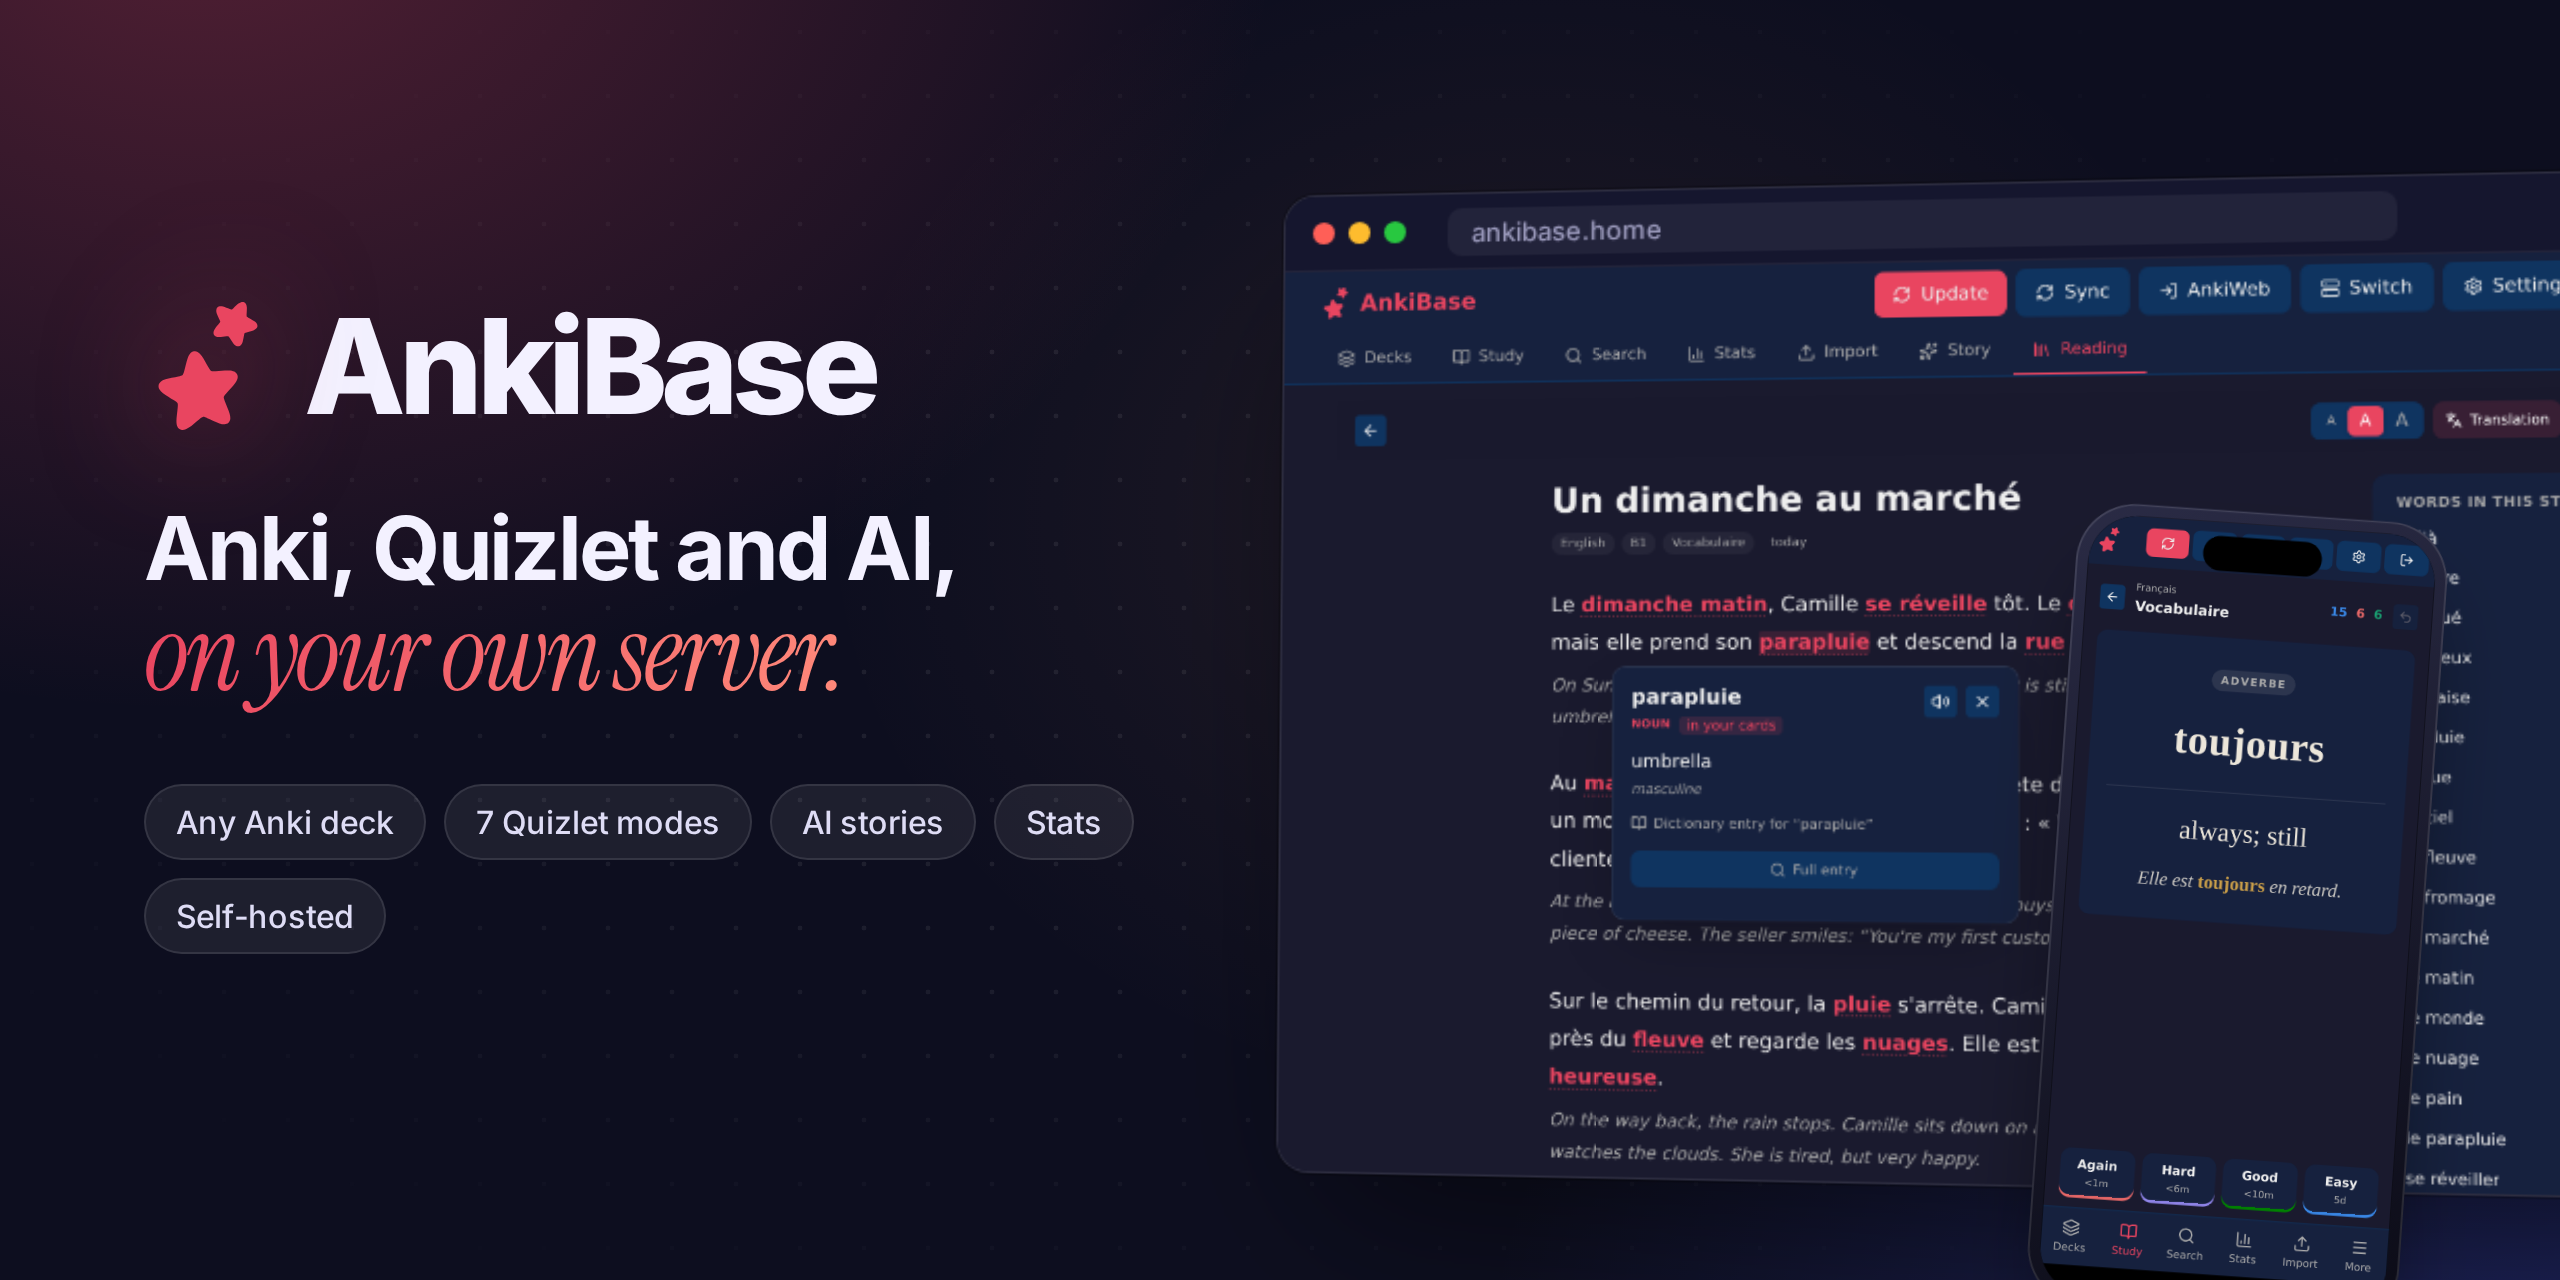
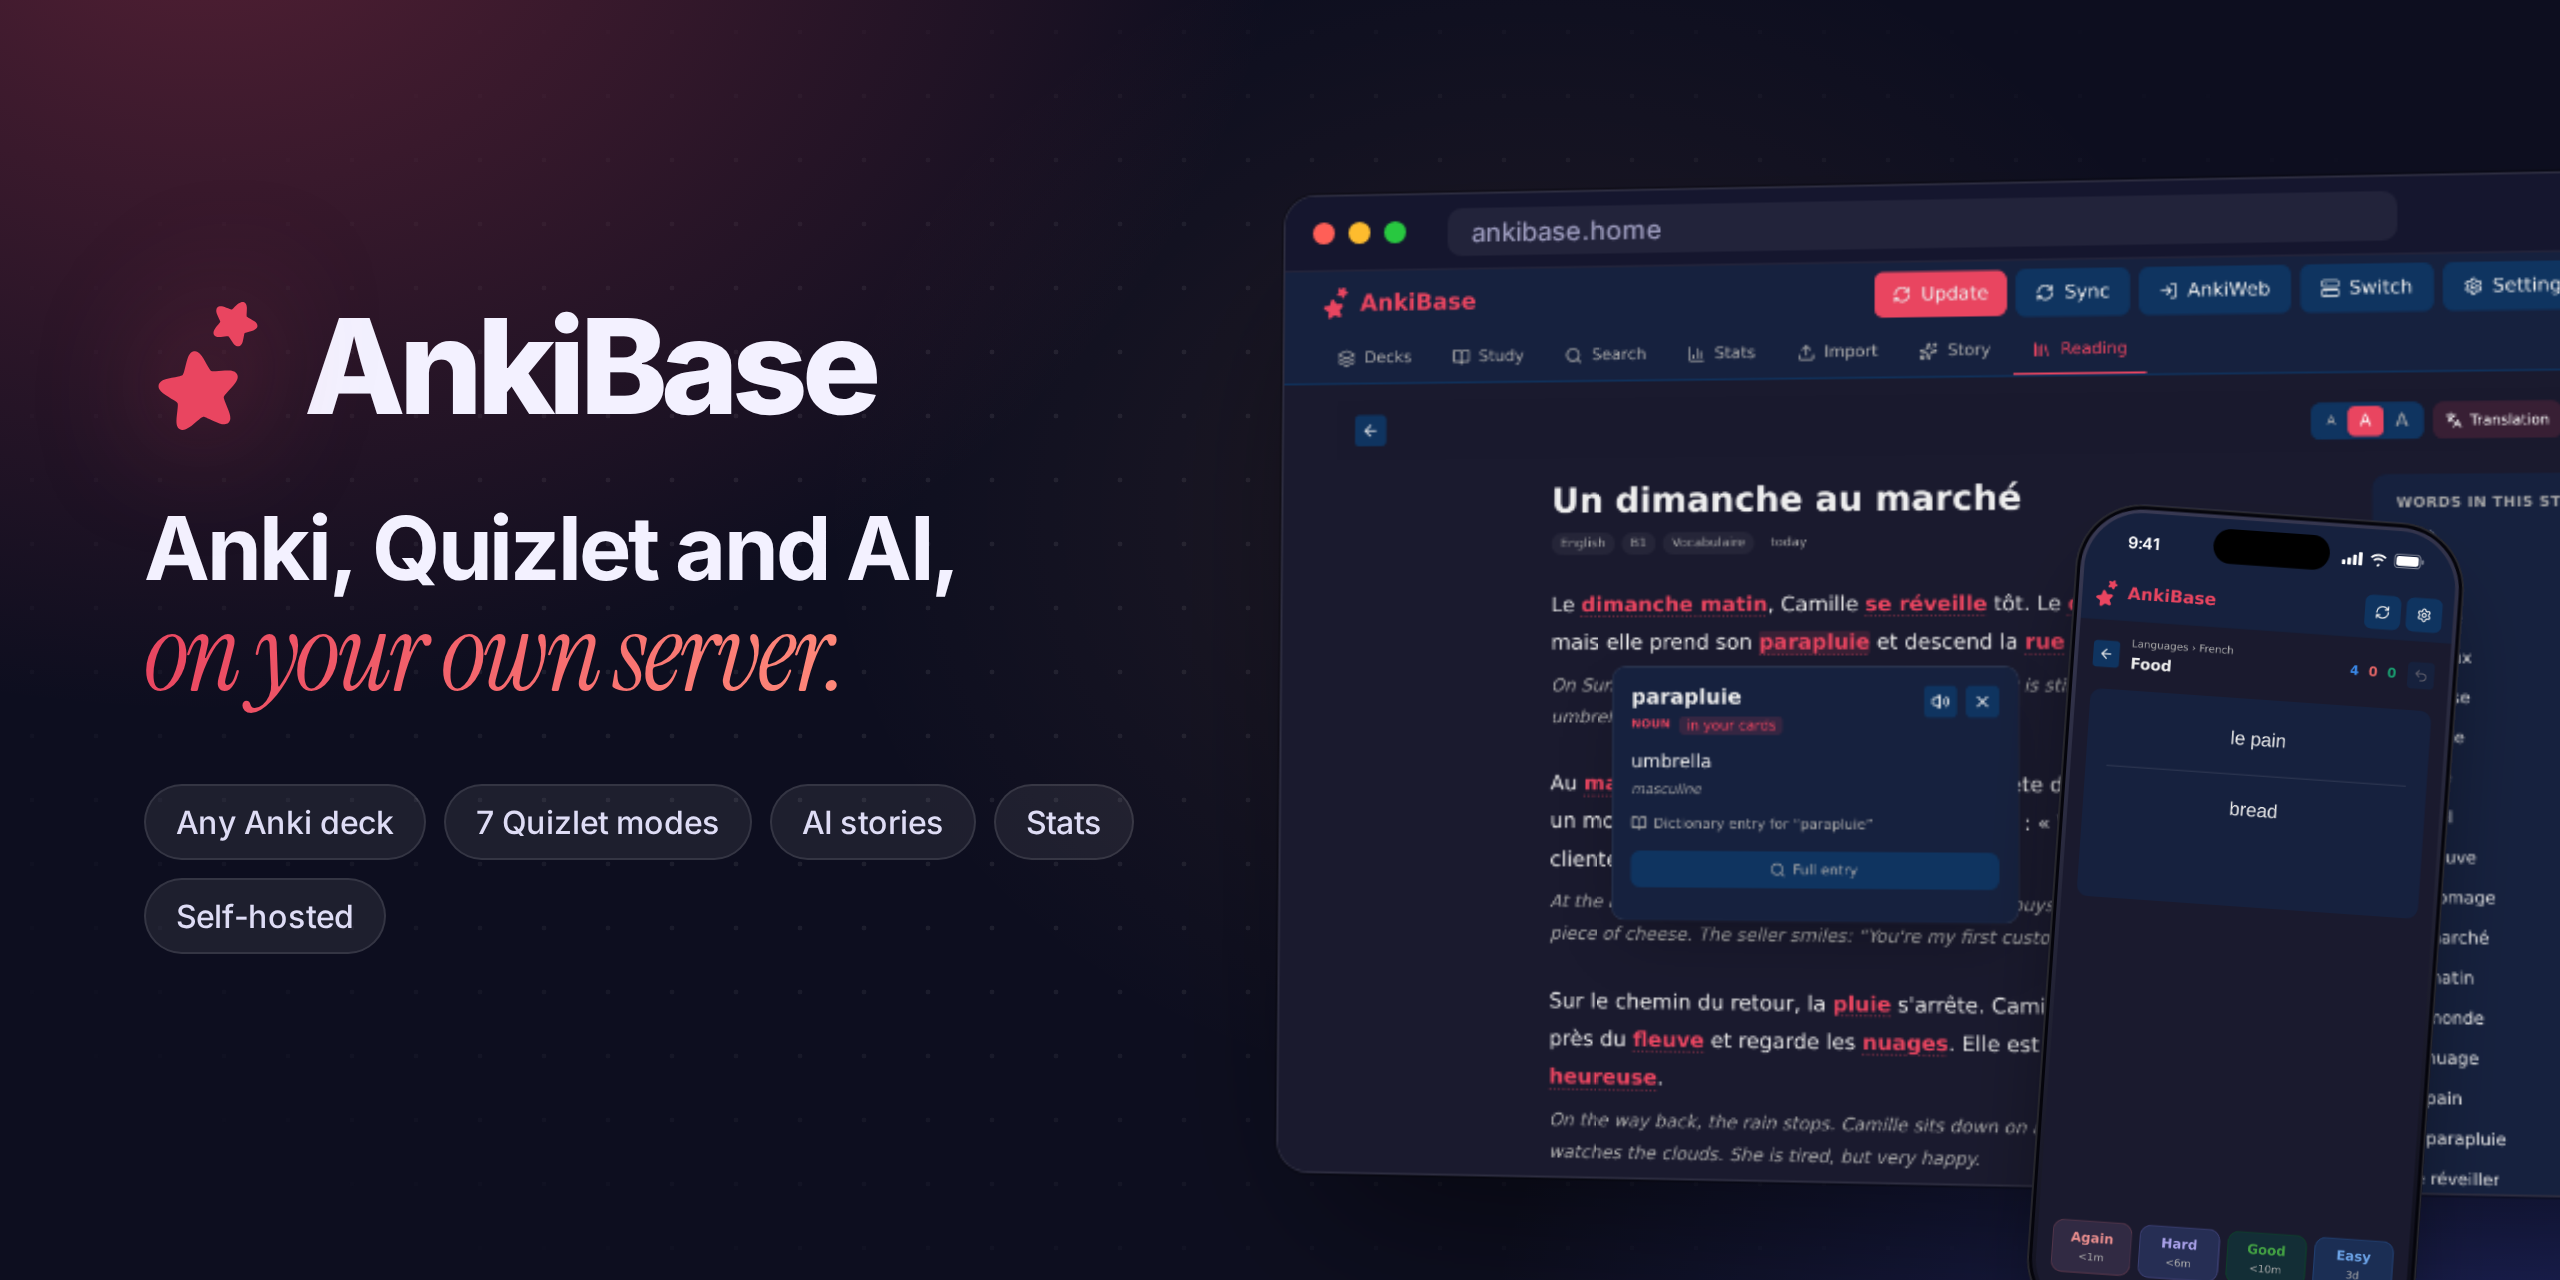
README: sharp media, a real video poster, the iPhone app
- Every README image is exported at full 2x and higher quality instead of being scaled
  down and compressed, so text is crisp on GitHub.
- The blurry animated video preview is now a sharp still with a play button.
- The phones show the actual iPhone app, taken with the iPhone's safe areas: the status
  bar and Dynamic Island sit over the app's header instead of covering it.
- New section on the iPhone app (offline, own sync server); sync server in the features.

Claude-Session: https://claude.ai/code/session_01XVCCwizeApyv2EfoSGjvCM

diff --git a/docs/video/media.html b/docs/video/media.html
@@ -25,11 +25,17 @@
   .bar i { width: 11px; height: 11px; border-radius: 50%; background: #ff5f57 } .bar i:nth-child(2) { background: #febc2e } .bar i:nth-child(3) { background: #28c840 }
   .url { margin-left: 14px; flex: 1; max-width: 460px; height: 24px; border-radius: 7px; background: rgba(255,255,255,.06); font: 500 13px/24px Inter; color: #9a99bb; padding-left: 12px }
   .browser img { display: block; width: 100% }
-  .phone { width: 300px; height: 649px; border-radius: 48px; padding: 10px; background: linear-gradient(160deg, #2a2b45, #0b0b16);
-           box-shadow: 0 40px 80px -24px rgba(0,0,0,.6), inset 0 0 0 1.5px rgba(255,255,255,.12) }
-  .phone .scr { width: 100%; height: 100%; border-radius: 39px; overflow: hidden; position: relative; background: #000 }
+  /* iPhone 15 Pro: a 393×852 pt screen (shots are taken at that size with its safe areas),
+     drawn 300 px wide; the status bar and Dynamic Island sit over the app's header. */
+  .phone { width: 314px; height: 664px; border-radius: 54px; padding: 7px; background: linear-gradient(160deg, #3a3b55, #0b0b16);
+           box-shadow: 0 40px 80px -24px rgba(0,0,0,.6), inset 0 0 0 1.5px rgba(255,255,255,.14), inset 0 0 0 4px #05050c }
+  .phone .scr { width: 300px; height: 650px; border-radius: 47px; overflow: hidden; position: relative; background: #000 }
   .phone img { width: 100%; display: block }
-  .phone .notch { position: absolute; top: 11px; left: 50%; width: 96px; height: 28px; margin-left: -48px; border-radius: 20px; background: #000; z-index: 2 }
+  .phone .notch { position: absolute; top: 8px; left: 50%; width: 94px; height: 28px; margin-left: -47px; border-radius: 20px; background: #000; z-index: 2 }
+  .phone .status { position: absolute; top: 0; left: 0; right: 0; height: 44px; z-index: 2; display: flex; align-items: center; justify-content: space-between;
+                   padding: 4px 26px 0 34px; font: 600 13px/1 Inter; color: #fff; letter-spacing: -.01em }
+  .phone .status svg { display: block }
+  .phone .home { position: absolute; bottom: 6px; left: 50%; width: 104px; height: 4px; margin-left: -52px; border-radius: 3px; background: rgba(255,255,255,.85); z-index: 2 }
   .tile { border-radius: 14px; overflow: hidden; position: relative; border: 1px solid rgba(255,255,255,.12); box-shadow: 0 24px 50px -18px rgba(0,0,0,.6) }
   .tile img { width: 100%; display: block }
   .tile span { position: absolute; left: 12px; bottom: 10px; font: 600 14px/1 Inter; padding: 7px 11px; border-radius: 999px; background: rgba(0,0,0,.6); color: #fff }
@@ -52,7 +58,7 @@
   </div>
   <div class="abs browser" style="left:640px;top:96px;width:720px;transform:perspective(2000px) rotateY(-9deg) rotateX(3deg);transform-origin:0 50%">
     <div class="bar"><i></i><i></i><i></i><div class="url">ankibase.home</div></div><img src="shots/reading.png"></div>
-  <div class="abs phone" style="left:1040px;top:250px;transform:scale(.62) rotate(4deg);transform-origin:0 0"><div class="scr"><div class="notch"></div><img src="shots/m-study.png"></div></div>
+  <div class="abs phone" style="left:1040px;top:250px;transform:scale(.62) rotate(4deg);transform-origin:0 0"><div class="scr"><img src="shots/m-study.png"></div></div>
 </div>
 
 <!-- framed screenshot (transparent) -->
@@ -70,10 +76,13 @@
 </div>
 
 <!-- phones -->
-<div class="board bg" id="phones" style="width:1280px;height:820px">
-  <div class="abs phone" style="left:150px;top:110px;transform:rotate(-4deg)"><div class="scr"><div class="notch"></div><img src="shots/m-study.png"></div></div>
-  <div class="abs phone" style="left:490px;top:80px"><div class="scr"><div class="notch"></div><img src="shots/m-reading.png"></div></div>
-  <div class="abs phone" style="left:830px;top:110px;transform:rotate(4deg)"><div class="scr"><div class="notch"></div><img src="shots/m-learn.png"></div></div>
+<div class="board bg" id="phones" style="width:1280px;height:860px">
+  <div style="position:absolute;left:0;right:0;top:40px;text-align:center">
+    <div style="font:600 14px/1 Inter;letter-spacing:.28em;color:var(--accent);text-transform:uppercase">iPhone app · works offline · syncs with AnkiWeb or your own server</div>
+  </div>
+  <div class="abs phone" style="left:150px;top:120px;transform:rotate(-4deg)"><div class="scr"><img src="shots/m-decks.png"></div></div>
+  <div class="abs phone" style="left:483px;top:96px"><div class="scr"><img src="shots/m-study.png"></div></div>
+  <div class="abs phone" style="left:816px;top:120px;transform:rotate(4deg)"><div class="scr"><img src="shots/m-stats.png"></div></div>
 </div>
 
 <!-- architecture -->
@@ -158,6 +167,13 @@
 </div>
 
 <script>
+// Status bar, Dynamic Island and home indicator on every phone.
+const STATUS = `<div class="status"><span>9:41</span><span style="display:flex;gap:5px;align-items:center">
+  <svg width="17" height="11" viewBox="0 0 17 11" fill="#fff"><rect x="0" y="7" width="3" height="4" rx="1"/><rect x="4.5" y="5" width="3" height="6" rx="1"/><rect x="9" y="2.5" width="3" height="8.5" rx="1"/><rect x="13.5" y="0" width="3" height="11" rx="1"/></svg>
+  <svg width="15" height="11" viewBox="0 0 15 11" fill="#fff"><path d="M7.5 2.2c2 0 3.9.8 5.3 2.1l1.1-1.1A9 9 0 0 0 7.5.6 9 9 0 0 0 1.1 3.2l1.1 1.1A7.6 7.6 0 0 1 7.5 2.2zm0 3.2c1.2 0 2.3.4 3.1 1.2l1.1-1.1a6 6 0 0 0-8.4 0l1.1 1.1c.8-.8 1.9-1.2 3.1-1.2zm0 3.1-1.6 1.6L7.5 11l1.6-1.9z"/></svg>
+  <svg width="25" height="12" viewBox="0 0 25 12"><rect x=".5" y=".5" width="21" height="11" rx="3.2" fill="none" stroke="rgba(255,255,255,.45)"/><rect x="2" y="2" width="18" height="8" rx="2" fill="#fff"/><rect x="22.5" y="4" width="1.6" height="4" rx=".8" fill="rgba(255,255,255,.45)"/></svg>
+</span></div><div class="notch"></div><div class="home"></div>`;
+document.querySelectorAll('.phone .scr').forEach(s => s.insertAdjacentHTML('beforeend', STATUS));
 const q = new URLSearchParams(location.search);
 const show = q.get('b');
 document.querySelectorAll('.board').forEach(b => b.style.display = b.id === show ? '' : 'none');

diff --git a/docs/video/poster.py b/docs/video/poster.py
@@ -1,0 +1,19 @@
+"""The README's video poster: a still of the demo with a play button (an animated preview
+compresses badly on GitHub).   python3 poster.py . 9.5 media/demo-poster.webp"""
+import sys
+from PIL import Image, ImageDraw
+from playwright.sync_api import sync_playwright
+V, T, OUT = sys.argv[1], float(sys.argv[2]), sys.argv[3]
+with sync_playwright() as p:
+    br = p.chromium.launch(); page = br.new_page(viewport={"width": 1920, "height": 1080})
+    page.goto(f"file://{V}/composition.html"); page.evaluate("() => document.fonts.ready")
+    page.wait_for_function("() => [...document.images].every(i => i.complete)")
+    page.evaluate(f"render({T})"); page.screenshot(path="/tmp/poster.png"); br.close()
+im = Image.open("/tmp/poster.png").convert("RGBA")
+over = Image.new("RGBA", im.size, (0, 0, 0, 0)); d = ImageDraw.Draw(over)
+cx, cy, r = im.width // 2, im.height // 2, 78
+d.ellipse((cx - r - 10, cy - r - 10, cx + r + 10, cy + r + 10), fill=(0, 0, 0, 70))
+d.ellipse((cx - r, cy - r, cx + r, cy + r), fill=(233, 69, 96, 235))
+d.polygon([(cx - 24, cy - 36), (cx - 24, cy + 36), (cx + 40, cy)], fill=(255, 255, 255, 255))
+Image.alpha_composite(im, over).convert("RGB").save(OUT, "WEBP", quality=90, method=6)
+print(OUT, im.size)

diff --git a/docs/video/media.py b/docs/video/media.py
@@ -16,9 +16,8 @@ with sync_playwright() as p:
         im = Image.open(png)
         if name == "shot-stats":  # very tall: keep the top part
             im = im.crop((0, 0, im.width, int(im.width * 1.05)))
-        if name != "hero":
-            im = im.resize((im.width * 3 // 4, im.height * 3 // 4), Image.LANCZOS)
-        im.save(f"{O}/{name}.webp", "WEBP", quality=86, method=6)
+        # Full 2x: GitHub shows README images ~900 px wide, so 2x stays sharp on any screen.
+        im.save(f"{O}/{name}.webp", "WEBP", quality=92, method=6)
         if name == "hero": im.convert("RGB").save(f"{O}/social-preview.png", optimize=True)
         print(name, im.size)
     br.close()

diff --git a/README.md b/README.md
@@ -19,9 +19,9 @@ AnkiBase is a self-hosted web app for language learners. It runs your **real Ank
 
 <div align="center">
   <a href="https://github.com/Macro002/AnkiBase/blob/main/docs/public/media/ankibase-demo.mp4">
-    <img src="docs/public/media/demo-preview.webp" alt="AnkiBase demo: study, Quizlet modes, AI stories, stats, themes and mobile" width="100%">
+    <img src="docs/public/media/demo-preview.webp" alt="Play the AnkiBase demo: study, Quizlet modes, AI stories, stats, themes and mobile" width="100%">
   </a>
-  <sub>Click for the full 1080p video (46 s).</sub>
+  <sub>▶ Click to watch the 1080p demo (46 s).</sub>
 </div>
 
 ## ✨ Features
@@ -33,7 +33,7 @@ AnkiBase is a self-hosted web app for language learners. It runs your **real Ank
 - **Anki's own reviewer:** card order, daily limits, learning steps and burying all come from Anki itself. Each card takes about one fast call, so studying stays quick on big collections.
 - **Every note type renders properly:** your templates' HTML and CSS run in a sandboxed frame with night mode (and day mode on light themes), images, audio buttons, cloze, type-in answers, MathJax and card scripts.
 - Keyboard first: <kbd>Space</kbd> reveals, <kbd>1</kbd>–<kbd>4</kbd> answer, <kbd>Ctrl</kbd>+<kbd>Z</kbd> undoes, <kbd>R</kbd> replays audio. The answer buttons show the next intervals.
-- Two-way **AnkiWeb sync** with a conflict picker, `.apkg` import, and deck management.
+- Two-way sync with **AnkiWeb or your own sync server** (Settings → Sync), a conflict picker, `.apkg` import, and deck management.
 
 ### 🧩 Quizlet sets, fully playable
 
@@ -72,11 +72,13 @@ A calendar heatmap, reviews over time, future due, card counts, intervals, ease,
 
 Nine built-in themes, custom accent and base colours with a live preview, and theme import/export. Admins can set the server-wide default. Sliders, toggles and panels move with springy, velocity-aware motion.
 
-### 📱 Feels native on your phone
+### 📱 An iPhone app that works offline
 
-<img src="docs/public/media/phones.webp" alt="AnkiBase on phones" width="100%">
+<img src="docs/public/media/phones.webp" alt="The AnkiBase iPhone app: decks, studying and stats" width="100%">
 
-Bottom tab bar, safe-area aware layouts, large touch targets and a full-width answer bar.
+The [iPhone app](ios/) runs **Anki's own engine on the phone**: decks, studying, search, editing, `.apkg` import, stats and Anki's Deck Options all work with no connection at all. It only needs the internet to sync, with AnkiWeb or your own sync server, and to reach your AnkiBase server for stories, AI and Quizlet, which it can also do without. What you opened from the server stays readable offline, and progress saved offline is sent when you're back.
+
+It's built to feel like an app rather than a web page: no zooming or bouncing, the layout clears the Dynamic Island and home indicator, the answer buttons sit under your thumb, and the status bar and home screen icon follow your theme. Build it on Linux or a Mac (see [`ios/`](ios/)) and install it with SideStore or AltStore.
 
 ### 🏠 Built to self-host
 

diff --git a/docs/video/README.md b/docs/video/README.md
@@ -11,13 +11,14 @@ Playwright (headless Chromium) and encoded with ffmpeg, the same technique as
 | `media.html` | README boards: hero / social preview, framed screenshots, themes, phones, architecture |
 | `render.py` | renders the video: `python3 render.py . 60 out/ankibase-demo.mp4` |
 | `frames.py` | stills for checking timing: `python3 frames.py . 2.5,8,14 prev` |
-| `media.py` | renders every board to WebP in `media/` |
+| `media.py` | renders every board to WebP in `media/` (full 2x, so they stay sharp on GitHub) |
+| `poster.py` | the README's video poster: a still with a play button (`python3 poster.py . 9.5 media/demo-poster.webp`, published as `demo-preview.webp`) |
 | `fonts/` | Inter, Instrument Serif and JetBrains Mono (SIL OFL) |
 
 Both pages read app screenshots from `shots/` (git-ignored), taken from a demo instance at
-1280×800 @2x (desktop) and 390×844 @3x (phone): `study-q`, `study`, `quizlet-learn`, `quizlet-match`,
+1280×800 @2x (desktop) and 393×852 @3x (phone, taken in the iPhone app's emulator with the iPhone's safe areas: 59 px top, 34 px bottom): `study-q`, `study`, `quizlet-learn`, `quizlet-match`,
 `story`, `reading-plain`, `reading`, `stats` (full page), `decks`, `search`, `settings`, `study-hub`,
-`theme-study-<theme>`, `theme-decks-<theme>`, `m-study`, `m-reading`, `m-learn`.
+`theme-study-<theme>`, `theme-decks-<theme>`, `m-decks`, `m-study`, `m-stats`.
 
 Requirements: Python 3 with `playwright` (+ `playwright install chromium`), Pillow, and ffmpeg.
 Copy the results to `docs/public/media/`.
